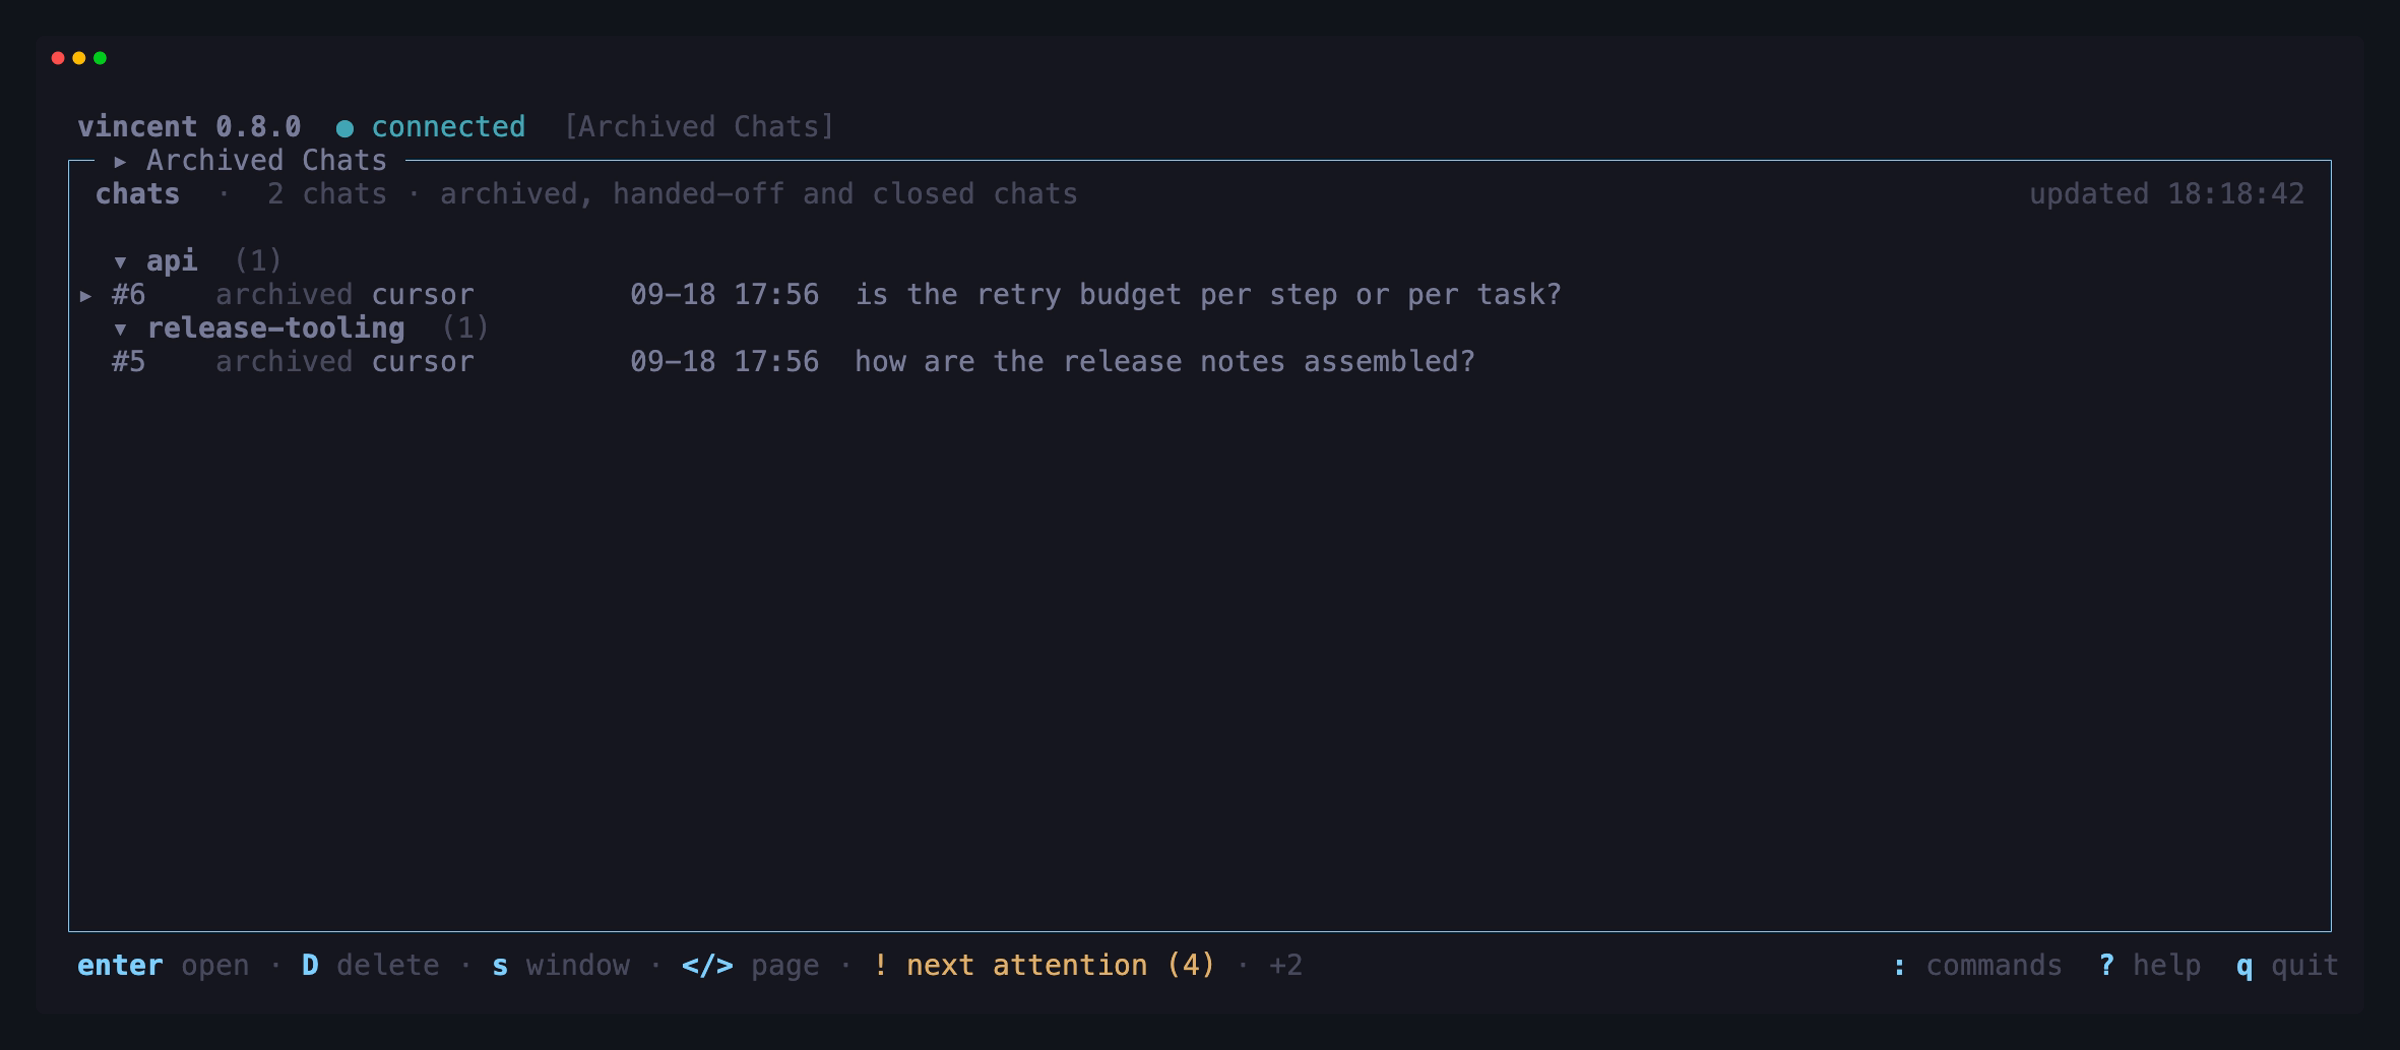
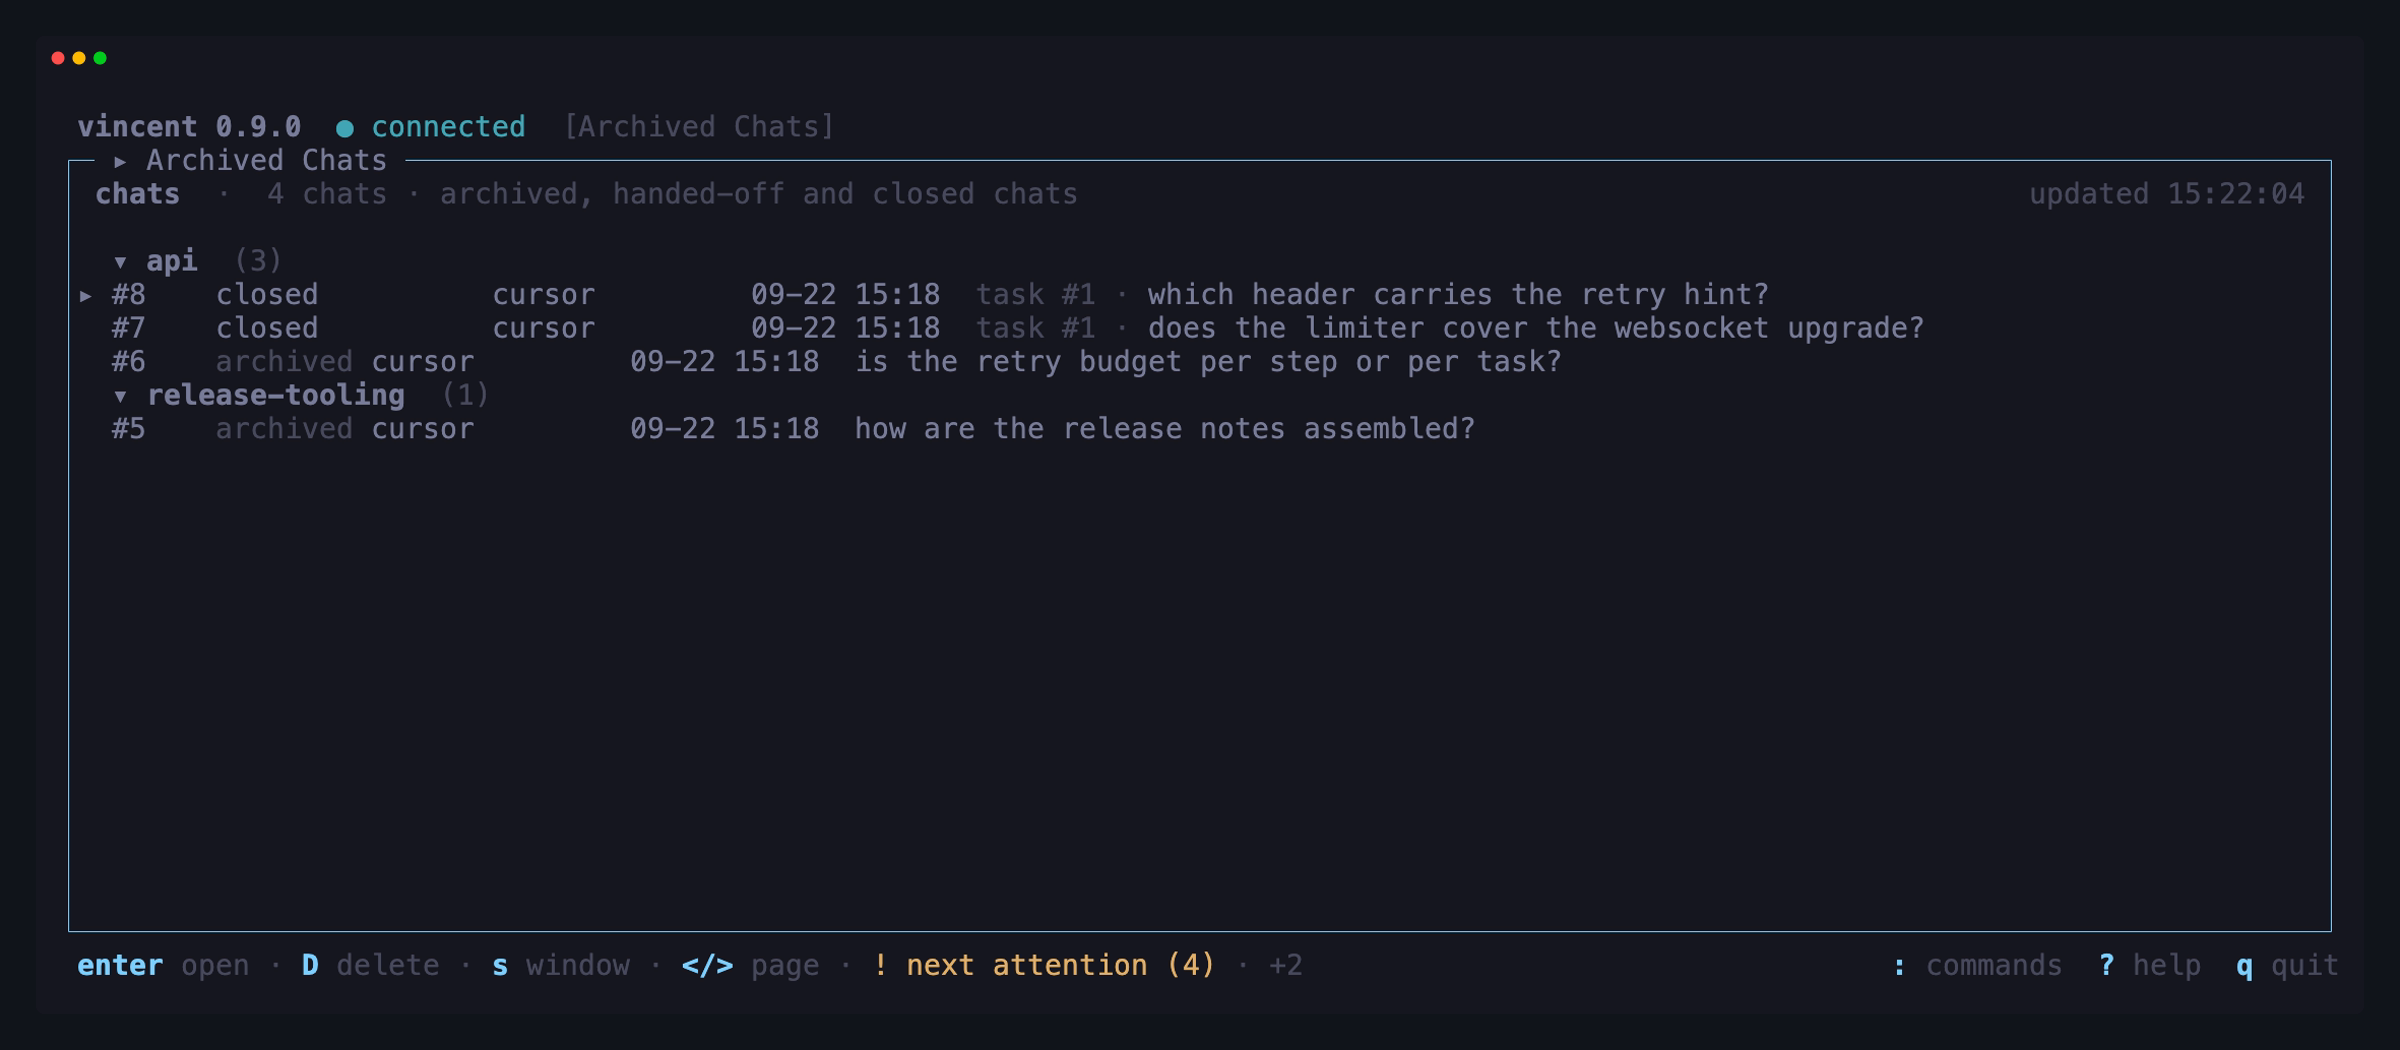
docs(screenshots): seed and photograph a task's linked chats
The seed had no linked chat in it at all, so re-running the script would
have photographed the same frames again and shown none of 119.6's UI. It
now opens two chats on the gated task with `POST /v1/tasks/{id}/chat`,
last in the chats phase so every existing chat id is unmoved, and closes
both: an open linked chat locks its task to `cancel` alone, which would
strip the action keys from the footers of three committed frames of that
same task which are not being re-captured.

Closing is terminal (spec §5.5), and the live chats board excludes
terminal chats, so the `task #N · ` prefix is photographed on the
archived chats board rather than on `tui-chats.png` — which is left
byte-identical, its four live chats being unchanged. The task workspace
half moves the `tui-task-details` tape from `Down 1` to `Down 3`: the
inspector renders one section at a time and `Chats` sits between
`Execution` and `Fields`.

Both frames are captures of the running TUI taken on macOS with vhs
0.11.0. The TUI guide's alt text follows what they now show, and its
linked-chat section says which board lists a closed chat.

diff --git a/docs/guides/tui.md b/docs/guides/tui.md
@@ -263,8 +263,9 @@ the mouse to choose a section and `pgup`/`pgdn` to scroll long section content;
 the inspector never edits anything.
 
 ![Task Details on a task at its gate: the section sidebar on the left with
-Overview selected, and its state, project, workflow and where that workflow came
-from, branch, base and worktree on the right](../assets/tui-task-details.png)
+Chats selected, and on the right the two chats opened on this task, newest
+first, both closed, with their agent, when they started and their
+titles](../assets/tui-task-details.png)
 
 Its **GitHub pull request** section follows the captured issue and shows one of
 three things: the pull request linked to this task with its live state, the
@@ -1053,8 +1054,10 @@ the task and touches nothing else: the worktree and the branch are the task's,
 and whatever the conversation changed in them is still there for `r`, `a` or
 `A`. A closed chat takes no more messages, but it is not gone — the task's
 **Task Details** tab lists every chat opened on it under **Chats**, closed ones
-included, and the chats board shows each one's task ahead of its title. Pressing
-`T` again later opens a new chat.
+included, and both chats boards show each one's task ahead of its title —
+closing is terminal, so a closed chat is listed on the
+[archived chats board](#archived) rather than the live one. Pressing `T` again
+later opens a new chat.
 
 A task that never got a worktree — blocked on `branch_exists`, say — has nothing
 to talk about in, and `T` says so on the action bar rather than making one.
@@ -1986,8 +1989,9 @@ every takeover but new task follows.
 archived tasks, grouped by project and workflow like the live
 board](../assets/tui-archived.png)
 
-![The archived chats board: two ended conversations, grouped by
-project](../assets/tui-archived-chats.png)
+![The archived chats board: four finished conversations grouped by project —
+two archived, and two closed chats that were opened on task #1, each saying so
+ahead of its title](../assets/tui-archived-chats.png)
 
 `enter` opens the row's workspace. It is **read-only for free**: an archived
 task offers no `available_actions`, and every action key is gated on those, so
